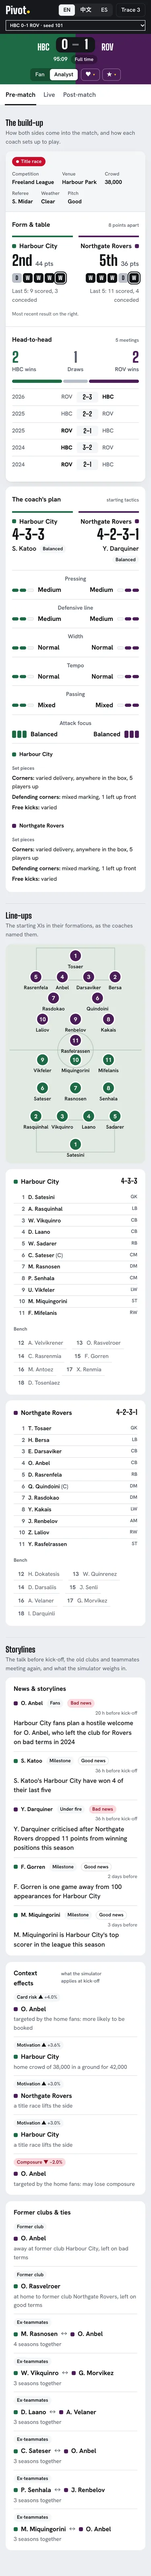
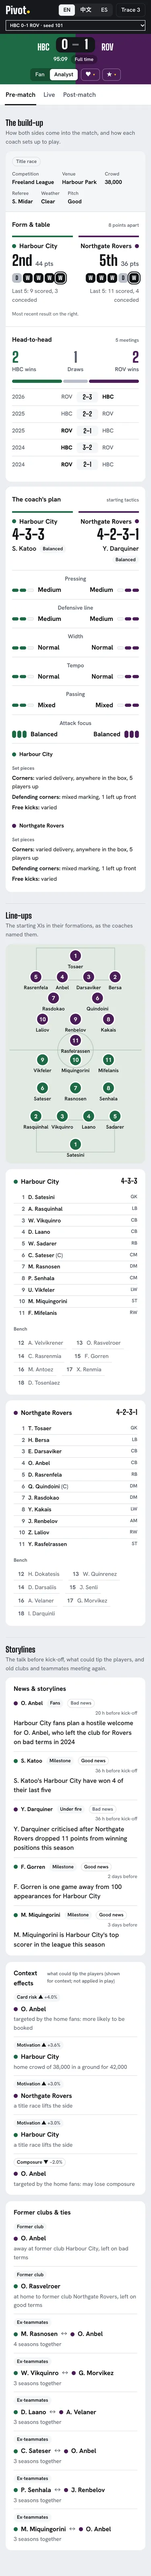
Ax63: follow the C11 design plan's rules on the pre-match tab
No red (not live, not an error) and no floating panel: losses are an outlined pill,
bad news and falling effects a hairline pill, the stakes a plain stamp. Kit dots
are round, small boxes take the control radius. The context-effects note says what
is true, as in the plan: shown for context, not applied in play (en, zh, es); the
storylines note no longer claims the simulator weighs them in.

Refs #297 #288

Changed region(s): [[0.4693, 0.6545, 0.5867, 0.6857]]

diff --git a/apps/web/src/styles/prematch.css b/apps/web/src/styles/prematch.css
@@ -1,13 +1,15 @@
 /* Ax60: the pre-match cards and the coach's plan. Home reads in --pv-home, away in --pv-away, as on the stats.
- * C11 (Ax63): a match preview. The tale of the tape is the biggest thing on the tab; each team block
- * opens on a rule in its kit colour, and every team or person name carries a small kit swatch. */
+ * C11 (Ax63), after docs/design/c11-design-plan.md: a match preview. The tale of the tape is the
+ * biggest thing on the tab; each team block opens on a rule in its kit colour and every team or
+ * person name carries a kit dot. No yellow (nothing here is AI-checked), no red (not live, not an
+ * error): results and tones read from ink, grey and the words themselves. Nothing floats. */
 :is(.pre-kit, .pre-team, .pre-tally li, .pre-split i, .plan-head, .plan-val, .lu-team, .lu-list).home { --tc: var(--pv-home); }
 :is(.pre-kit, .pre-team, .pre-tally li, .pre-split i, .plan-head, .plan-val, .lu-team, .lu-list).away { --tc: var(--pv-away); }
-.pre-kit { display: inline-block; flex: none; width: 10px; height: 10px; margin-right: 8px; border-radius: 3px; background: var(--tc); vertical-align: 0; }
+.pre-kit { display: inline-block; flex: none; width: 10px; height: 10px; margin-right: 8px; border-radius: var(--pv-r-pill); background: var(--tc); vertical-align: 0; }
 .pre-top, .pre-stories .card, .plan { overflow-wrap: anywhere; }
 
 /* The tale of the tape: the match facts on a strip, then table and form facing the head-to-head. */
-.card.pre-top { padding: 0; gap: 0; box-shadow: var(--pv-lift); overflow: hidden; }
+.card.pre-top { padding: 0; gap: 0; overflow: hidden; }
 .pre-occasion { display: flex; flex-wrap: wrap; align-items: center; gap: 10px 28px; padding: 14px 24px; background: var(--pv-sunk); border-bottom: 1px solid var(--pv-hair); }
 .pre-tags { display: flex; flex-wrap: wrap; gap: 6px; }
 .pre-facts { display: flex; flex-wrap: wrap; gap: 8px 28px; margin: 0; }
@@ -32,10 +34,10 @@
 .pre-place b { font-family: var(--pv-display); font-weight: 800; font-size: var(--pv-fs-3xl); line-height: .95; }
 .pre-place small { font-size: var(--pv-fs-md); font-weight: 600; color: var(--pv-ink-2); }
 .pre-wdl { display: flex; gap: 4px; list-style: none; margin: 0; padding: 0; }
-.pre-wdl li { width: 28px; height: 28px; display: grid; place-items: center; border-radius: 6px; font-family: var(--pv-display); font-weight: 800; font-size: var(--pv-fs-md); }
+.pre-wdl li { width: 28px; height: 28px; display: grid; place-items: center; border-radius: var(--pv-r-ctl); font-family: var(--pv-display); font-weight: 800; font-size: var(--pv-fs-md); }
 .pre-wdl .r-W { background: var(--pv-ink); color: var(--pv-sheet); }
 .pre-wdl .r-D { background: var(--pv-draw); color: var(--pv-ink); }
-.pre-wdl .r-L { background: var(--pv-red); color: var(--pv-on-red); }
+.pre-wdl .r-L { background: var(--pv-sheet); color: var(--pv-ink-2); box-shadow: inset 0 0 0 1px var(--pv-hair); }
 .pre-wdl li:last-child { outline: 2px solid var(--pv-ink); outline-offset: 2px; }
 .pre-goals { font-size: var(--pv-fs-sm); }
 .pre-hint { font-size: var(--pv-fs-xs); }
@@ -51,7 +53,7 @@
 .pre-meetings { list-style: none; margin: 0; padding: 0; display: grid; font-variant-numeric: tabular-nums; }
 .pre-meetings li { display: grid; grid-template-columns: 3.5em minmax(0, 1fr) auto minmax(0, 1fr); gap: 10px; align-items: center; padding: 7px 0; border-top: 1px solid var(--pv-hair); font-size: var(--pv-fs-sm); font-weight: 500; color: var(--pv-ink-2); }
 .pre-meetings li > :nth-child(2) { text-align: right; }
-.pre-meetings b { min-width: 3.4em; text-align: center; padding: 1px 8px; border-radius: 6px; background: var(--pv-sunk); color: var(--pv-ink); font-family: var(--pv-display); font-weight: 800; font-size: var(--pv-fs-md); }
+.pre-meetings b { min-width: 3.4em; text-align: center; padding: 1px 8px; border-radius: var(--pv-r-ctl); background: var(--pv-sunk); color: var(--pv-ink); font-family: var(--pv-display); font-weight: 800; font-size: var(--pv-fs-md); }
 .pre-meetings .won { color: var(--pv-ink); font-weight: 800; }
 
 /* The storylines: the news widest with the context effects beside it, then the ties across the width. */
@@ -74,8 +76,8 @@
 .pre-who { display: inline-flex; align-items: center; font-weight: 700; }
 .pre-meta .pre-who { font-size: var(--pv-fs-sm); }
 .pre-kind, .pre-tone, .pre-chip { display: inline-block; padding: 1px 8px; border-radius: var(--pv-r-pill); background: var(--pv-sunk); font-size: var(--pv-fs-xs); font-weight: 600; line-height: 1.6; white-space: nowrap; }
-.pre-tone.negative, .pre-chip.down { background: var(--pv-bad-bg); color: var(--pv-bad-fg); }
-.pre-tone.positive { background: transparent; box-shadow: inset 0 0 0 1px var(--pv-hair); }
+.pre-tone, .pre-chip.down { background: transparent; box-shadow: inset 0 0 0 1px var(--pv-hair); }
+.pre-tone.negative { color: var(--pv-ink-2); }
 .pre-when { margin-left: auto; }
 
 .pre-list { list-style: none; margin: 0; padding: 0; display: grid; grid-template-columns: max-content minmax(0, 1fr); }
@@ -84,7 +86,6 @@
 .pre-list li:last-child { padding-bottom: 0; }
 .pre-chip { justify-self: start; }
 .pre-chip small { color: var(--pv-ink-2); font-size: inherit; }
-.pre-chip.down small { color: inherit; }
 .pre-list .pre-who { display: flex; }
 .pre-note { display: block; margin-top: 2px; font-size: var(--pv-fs-sm); color: var(--pv-ink-2); }
 .pre-pair { display: flex; flex-wrap: wrap; align-items: center; gap: 2px 8px; }
@@ -114,7 +115,7 @@
 .plan-val.away .plan-meter:not(.lanes) { flex-direction: row-reverse; }
 .plan-meter i { width: 28px; height: 8px; border-radius: var(--pv-r-pill); background: var(--pv-sunk); box-shadow: inset 0 0 0 1px var(--pv-hair); }
 .plan-meter i.on { background: var(--tc); box-shadow: none; }
-.plan-meter.lanes i { width: 10px; height: 18px; border-radius: 3px; }
+.plan-meter.lanes i { width: 10px; height: 18px; border-radius: var(--pv-r-pill); }
 .plan-col { display: grid; gap: 4px; align-content: start; min-width: 0; }
 .plan-cols h4 { font-size: var(--pv-fs-xs); font-weight: 600; color: var(--pv-ink-2); margin: 8px 0 0; }
 .plan-cols .plan-col-team { display: inline-flex; align-items: center; margin: 0 0 2px; font-size: var(--pv-fs-sm); font-weight: 700; color: var(--pv-ink); }

diff --git a/apps/web/src/i18n/messages/es.ts b/apps/web/src/i18n/messages/es.ts
@@ -663,7 +663,7 @@ export const es: Messages = {
   "pre.kind.charity": "Solidaridad",
   "pre.kind.milestone": "Hito",
   "pre.kind.new_contract": "Nuevo contrato",
-  "pre.factorsNote": "lo que el simulador aplica al inicio",
+  "pre.factorsNote": "lo que podría influir en los jugadores (solo como contexto; no se aplica en el partido)",
   "pre.target.composure": "Temple",
   "pre.target.motivation": "Motivación",
   "pre.target.concentration": "Concentración",
@@ -796,7 +796,7 @@ export const es: Messages = {
   "pre.h2hWins": "Victorias {team}",
   "pre.h2hDraws": "Empates",
   "pre.stories": "Historias",
-  "pre.storiesNote": "Lo que se dice antes del partido, los reencuentros con antiguos clubes y compañeros, y lo que el simulador tiene en cuenta.",
+  "pre.storiesNote": "Lo que se dice antes del partido, lo que podría influir en los jugadores y los reencuentros con antiguos clubes y compañeros.",
 
   // Ax59 · fan mode hides the evidence numbers
   "why.sources": "Fuentes ({n})",

diff --git a/apps/web/src/i18n/messages/zh.ts b/apps/web/src/i18n/messages/zh.ts
@@ -661,7 +661,7 @@ export const zh: Messages = {
   "pre.kind.charity": "公益",
   "pre.kind.milestone": "里程碑",
   "pre.kind.new_contract": "续约",
-  "pre.factorsNote": "模拟器开球时实际计入的影响",
+  "pre.factorsNote": "可能影响球员的因素（仅作背景说明，比赛模拟时不计入）",
   "pre.target.composure": "冷静",
   "pre.target.motivation": "斗志",
   "pre.target.concentration": "专注",
@@ -794,7 +794,7 @@ export const zh: Messages = {
   "pre.h2hWins": "{team} 胜",
   "pre.h2hDraws": "平局",
   "pre.stories": "赛前故事",
-  "pre.storiesNote": "开赛前的新闻，谁要面对老东家和老队友，以及模拟器开球时计入的影响。",
+  "pre.storiesNote": "开赛前的新闻、可能影响球员的因素，以及谁要面对老东家和老队友。",
 
   // Ax59 · fan mode hides the evidence numbers
   "why.sources": "依据（{n}）",

diff --git a/apps/web/src/i18n/messages/en.ts b/apps/web/src/i18n/messages/en.ts
@@ -662,7 +662,7 @@ export const en = {
   "pre.kind.charity": "Charity",
   "pre.kind.milestone": "Milestone",
   "pre.kind.new_contract": "New contract",
-  "pre.factorsNote": "what the simulator applies at kick-off",
+  "pre.factorsNote": "what could tip the players (shown for context; not applied in play)",
   "pre.target.composure": "Composure",
   "pre.target.motivation": "Motivation",
   "pre.target.concentration": "Focus",
@@ -795,7 +795,7 @@ export const en = {
   "pre.h2hWins": "{team} wins",
   "pre.h2hDraws": "Draws",
   "pre.stories": "Storylines",
-  "pre.storiesNote": "The talk before kick-off, the old clubs and teammates meeting again, and what the simulator weighs in.",
+  "pre.storiesNote": "The talk before kick-off, what could tip the players, and old clubs and teammates meeting again.",
 
   // Ax59 · fan mode hides the evidence numbers
   "why.sources": "Sources ({n})",

diff --git a/apps/web/src/components/PreMatch.tsx b/apps/web/src/components/PreMatch.tsx
@@ -58,7 +58,7 @@ export function PreMatchTop() {
   );
 }
 
-/** The news first and widest with what the simulator applies at kick-off beside it, then the reunions; nothing without any. */
+/** The news first and widest with what could tip the players beside it, then the reunions; nothing without any. */
 export function PreMatchStories() {
   const pre = usePre();
   if (!pre) return null;
@@ -103,7 +103,7 @@ function Occasion({ context: c, t }: { context: MatchContext; t: T }) {
     <div className="pre-occasion">
       {(stakes || c.derby) && (
         <p className="pre-tags">
-          {stakes && <span className="stamp live">{t(`pre.stakes.${stakes}`)}</span>}
+          {stakes && <span className="stamp line">{t(`pre.stakes.${stakes}`)}</span>}
           {c.derby && <span className="stamp line">{t("pre.derby")}</span>}
         </p>
       )}
